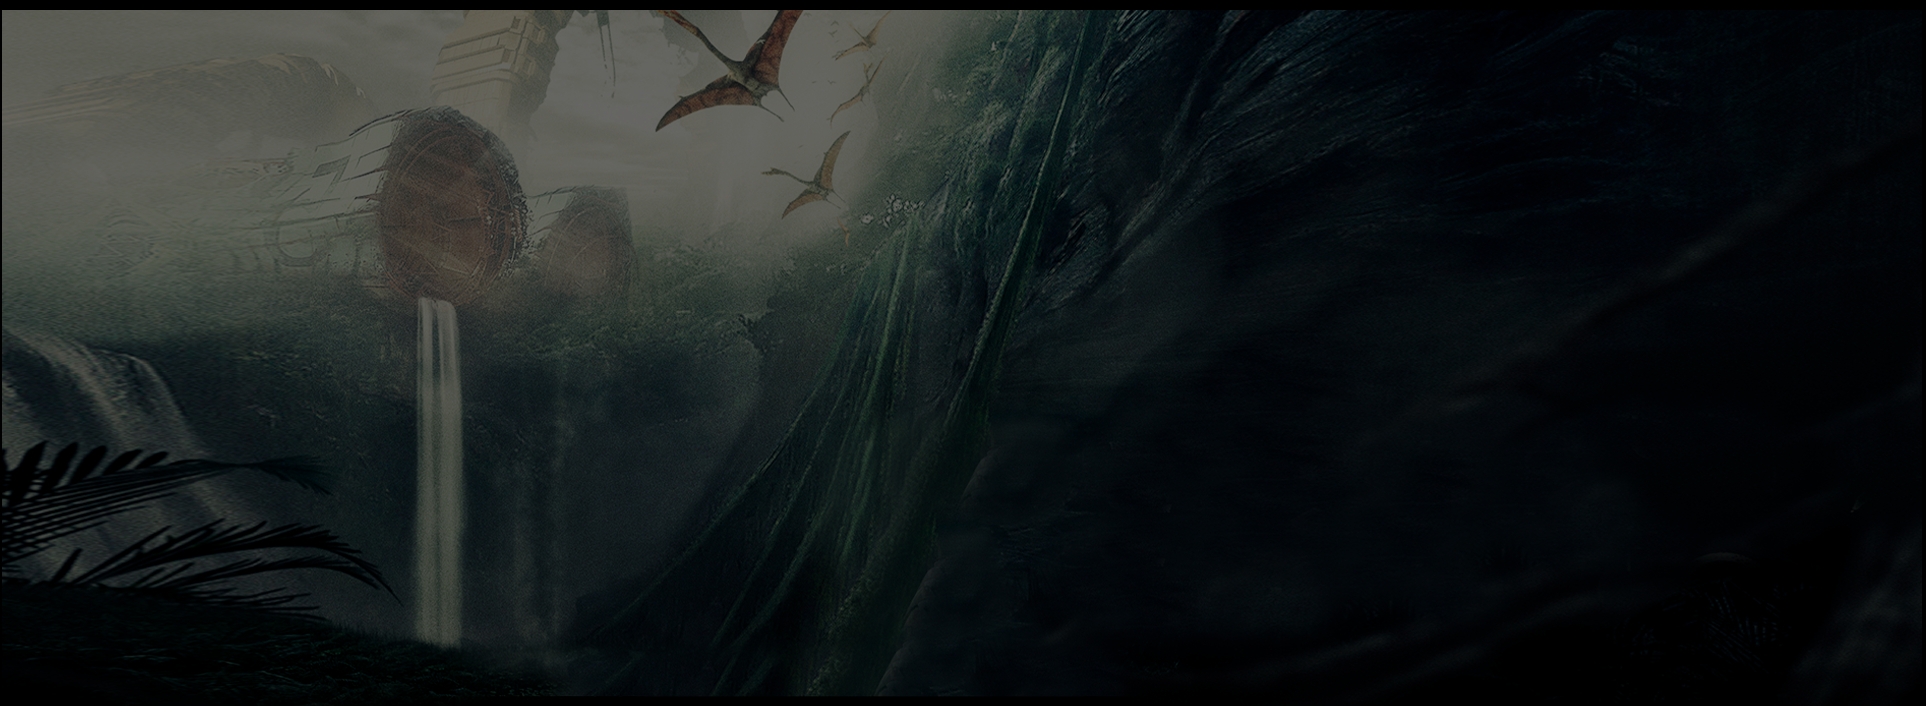
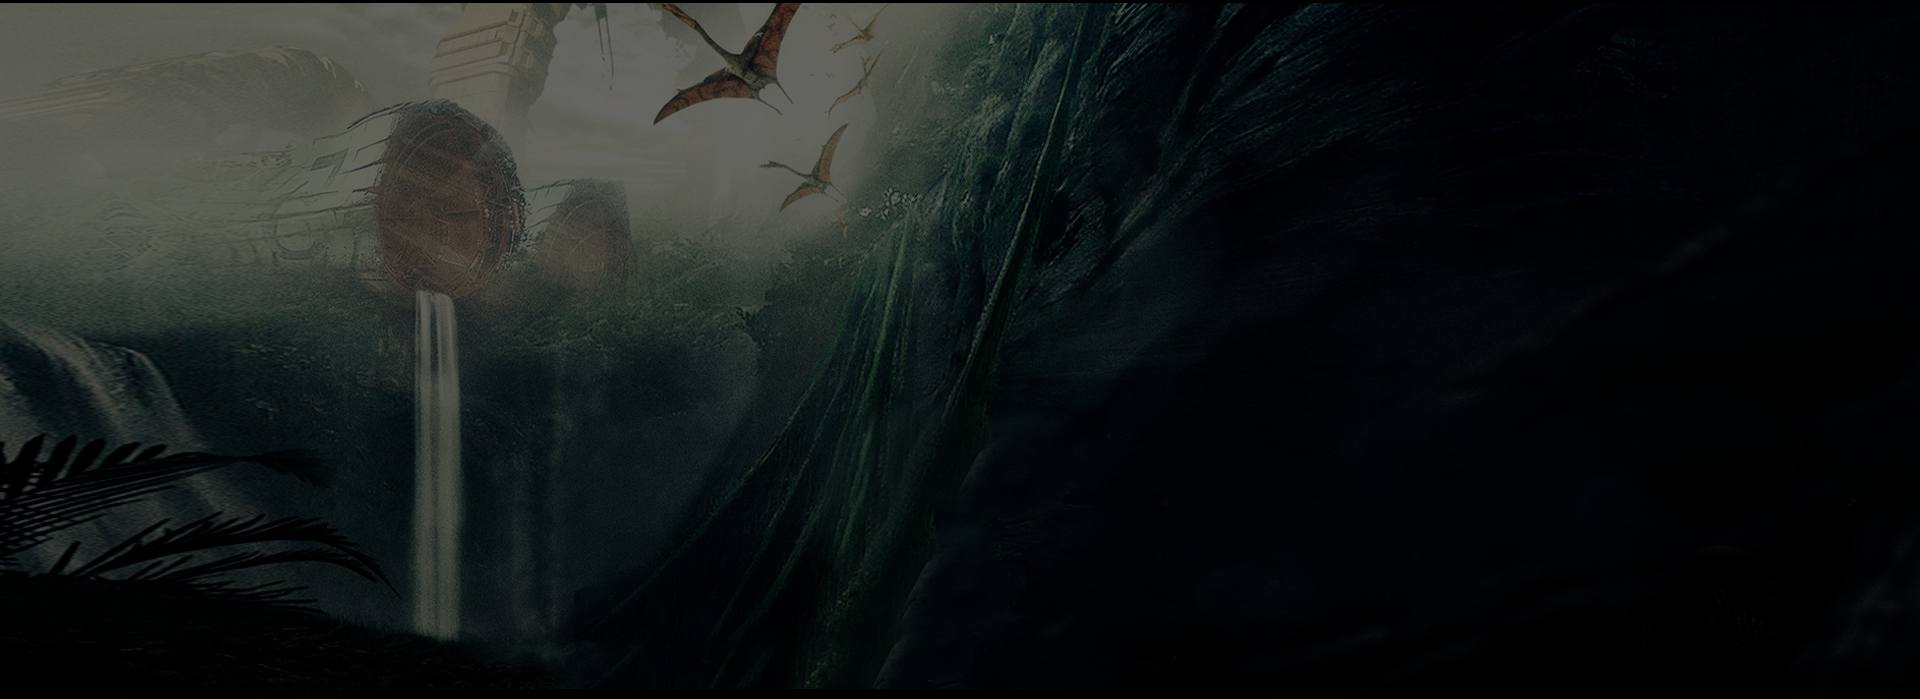
Оформил шапку

diff --git a/vr_box/index.html b/vr_box/index.html
@@ -11,37 +11,38 @@
   <link rel="stylesheet" href="css/style.css">
 </head>
 <body>
-  <header class="header">
-    <div class="container">
-      <div class="row">
+  <main class="main">
 
-        <div class="col-md-5">
-          <div class="logo">
-            <div class="media">
-              <div class="media-left">
-                <img class="media-object" src="img/logo.png" alt="VR Box 2">
-              </div>
-              <div class="media-body">
-                <h4 class="media-heading">Производство и продажа VR очков. <br>Доставка по всей России.</h4>
+    <div class="header">
+      <div class="container">
+        <div class="row">
+      
+          <div class="col-lg-5 col-md-6">
+            <div class="logo">
+              <div class="media">
+                <div class="media-left">
+                  <img class="media-object" src="img/logo.png" alt="VR Box 2">
+                </div>
+                <div class="media-body">
+                  <h4 class="media-heading">Производство и продажа VR очков. <br>Доставка по всей России.</h4>
+                </div>
               </div>
             </div>
           </div>
-        </div>
-
-        <div class="col-md-2 col-md-offset-5">
-          <div class="phone-block">
-            <a class="phone-number" href="#">+79104551703</a>
-            <a class="phone-link" href="#">Заказать звонок</a>
+      
+          <div class="col-md-4 col-md-offset-2">
+            <div class="phone-block">
+              <a class="phone-number" href="#">+79104551703</a>
+              <a class="phone-link" href="#">Заказать звонок</a>
+            </div>
           </div>
+      
         </div>
-
       </div>
-    </div>
-  </header>
+    </div><!-- header -->
 
-  <main class="main">
-    <div class="container">
-      <div class="main-content">
+    <div class="main-content">
+      <div class="container">
         <div class="row">
           <div class="col-md-8">
             <div class="main-title">
@@ -53,17 +54,23 @@
         </div>
         <!-- Картинка очков vr box -->
         <div class="row">
+
           <div class="col-md-5">
             <div class="main-glasses">
               <img src="img/VR_Box.png" alt="Очки виртуальной реальности">
             </div>
           </div>
+          <!-- Картинка динозавра в телефоне -->
+          <div class="col-md-6 col-md-offset-1">
+            <div class="main-dinosaur">
+              <img class="main-dinosaur" src="img/dinosaur.png" alt="Динозавр в телефоне">
+            </div>
+          </div>
         </div>
-        <!-- Картинка динозавра в телефоне -->
         
-        <img class="main-dinosaur" src="img/dinosaur.png" alt="Динозавр в телефоне">
-      </div><!-- /.main-content -->
-    </div>  
+      </div>
+    </div><!-- /.main-contant -->
+
   </main>
 
   

diff --git a/vr_box/less/style.less b/vr_box/less/style.less
@@ -69,15 +69,55 @@ button, input, a, textarea {
   }
 }
 
-/* header */
+/* main */
+.main {
+  background: #000 url(../img/main/main-bg.jpg) center no-repeat;
+  background-size: cover;
+  padding-bottom: 2rem;
+  &-content {
+    position: relative;
+    margin-top: 10rem;
+
+    /* Главный заголовок */
+    h1 {
+      margin-top: 0;
+      margin-bottom: 2rem;
+      .bold();
+      font-size: 4rem;
+      color: @light;
+      text-shadow: 0 3px 0 #272b25;
+    }
+  }
+
+  /* Подзаголовок */
+  &-subtitle {
+    margin-bottom: 2.5rem;
+    font-size: 3rem;
+    .bold();
+    color: @light;
+  }
+
+  &-glasses {
+    margin-top: 4.5rem;
+    margin-left: -2rem;
+  }
+
+  &-dinosaur {
+    position: absolute;
+    top: -6rem;
+    right: 0;
+  }
+}
+
 .header {
   height: 8.7rem;
+  padding-top: 2rem;
   background: rgba(0, 0, 0, 0.62);
 }
 /* Оформление логотипа */
 .logo {
   .media {
-    margin-top: 2rem;
+    // margin-top: 2rem;
     &-body {
       vertical-align: bottom;
     }
@@ -95,7 +135,7 @@ button, input, a, textarea {
 /* Оформление номера телефона */
 .phone {
   &-block {
-    margin-top: 2rem;
+    // margin-top: 2rem;
     text-align: right;
     line-height: 1.2;
   }
@@ -116,38 +156,4 @@ button, input, a, textarea {
     }
   }
 }
-/* Оформление  главного заголовка*/
-.main {
-  background: #000 url(../img/main/main-bg.jpg) center no-repeat;
-  background-size: cover;
-  &-content {
-    position: relative;
-    margin-top: 10rem;
-    /* Главный заголовок */
-    h1 {
-      margin-top: 0;
-      margin-bottom: 2rem;
-      .bold();
-      font-size: 4rem;
-      color: @light;
-      text-shadow: 0 3px 0 #272b25;
-    }
-  }
-  /* Подзаголовок */
-  &-subtitle {
-    margin-bottom: 2.5rem;
-    font-size: 3rem;
-    .bold();
-    color: @light;
-  }
-  &-glasses {
-    margin-top: 4.5rem;
-    margin-left: -2rem;
-    margin-bottom: 2rem;
-  }
-  &-dinosaur {
-    position: absolute;
-    bottom: -26rem;
-    right: -1.5rem;
-  }
-}
+

diff --git a/vr_box/css/style.css b/vr_box/css/style.css
@@ -45,53 +45,11 @@ textarea:focus {
   cursor: pointer;
   background-color: #85b528;
 }
-/* header */
-.header {
-  height: 8.7rem;
-  background: rgba(0, 0, 0, 0.62);
-}
-/* Оформление логотипа */
-.logo .media {
-  margin-top: 2rem;
-}
-.logo .media-body {
-  vertical-align: bottom;
-}
-.logo .media-left {
-  padding-right: 1.5rem;
-}
-.logo .media h4 {
-  margin: 0;
-  font-size: 2rem;
-  font-weight: 500;
-  color: #fff;
-}
-/* Оформление номера телефона */
-.phone-block {
-  margin-top: 2rem;
-  text-align: right;
-  line-height: 1.2;
-}
-.phone-number {
-  font-size: 2.4rem;
-  font-family: 'HelveticaNeueCyr_bold', sans-serif;
-  color: #fff;
-}
-.phone-number:hover {
-  color: #cccccc;
-}
-.phone-link {
-  display: block;
-  font-size: 2rem;
-  color: #94ca2d;
-}
-.phone-link:hover {
-  color: #75a024;
-}
-/* Оформление  главного заголовка*/
+/* main */
 .main {
   background: #000 url(../img/main/main-bg.jpg) center no-repeat;
   background-size: cover;
+  padding-bottom: 2rem;
   /* Подзаголовок */
 }
 .main-content {
@@ -116,10 +74,48 @@ textarea:focus {
 .main-glasses {
   margin-top: 4.5rem;
   margin-left: -2rem;
-  margin-bottom: 2rem;
 }
 .main-dinosaur {
   position: absolute;
-  bottom: -26rem;
-  right: -1.5rem;
+  top: -6rem;
+  right: 0;
+}
+.header {
+  height: 8.7rem;
+  padding-top: 2rem;
+  background: rgba(0, 0, 0, 0.62);
+}
+/* Оформление логотипа */
+.logo .media-body {
+  vertical-align: bottom;
+}
+.logo .media-left {
+  padding-right: 1.5rem;
+}
+.logo .media h4 {
+  margin: 0;
+  font-size: 2rem;
+  font-weight: 500;
+  color: #fff;
+}
+/* Оформление номера телефона */
+.phone-block {
+  text-align: right;
+  line-height: 1.2;
+}
+.phone-number {
+  font-size: 2.4rem;
+  font-family: 'HelveticaNeueCyr_bold', sans-serif;
+  color: #fff;
+}
+.phone-number:hover {
+  color: #cccccc;
+}
+.phone-link {
+  display: block;
+  font-size: 2rem;
+  color: #94ca2d;
+}
+.phone-link:hover {
+  color: #75a024;
 }
